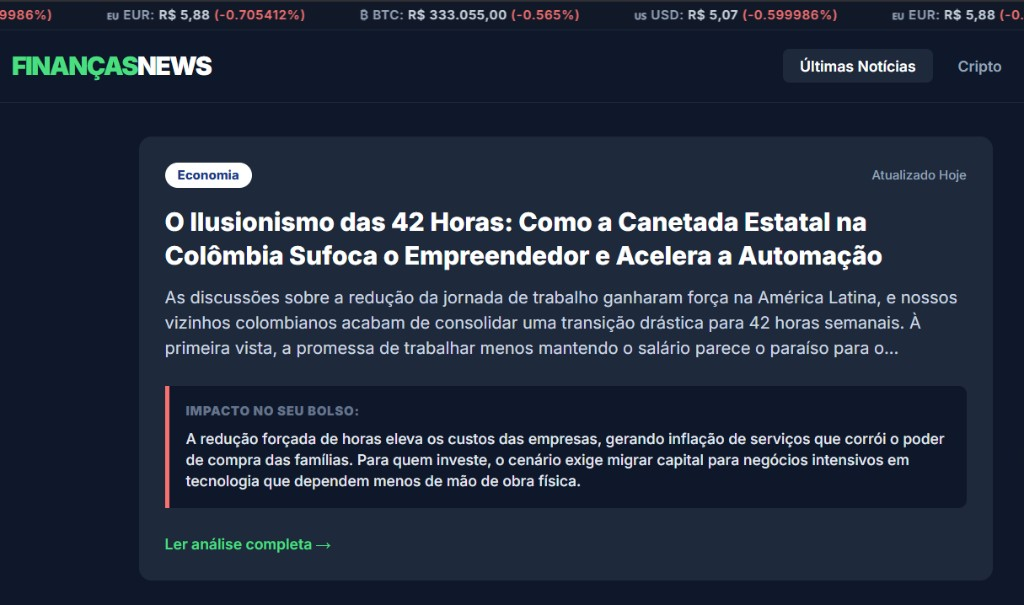
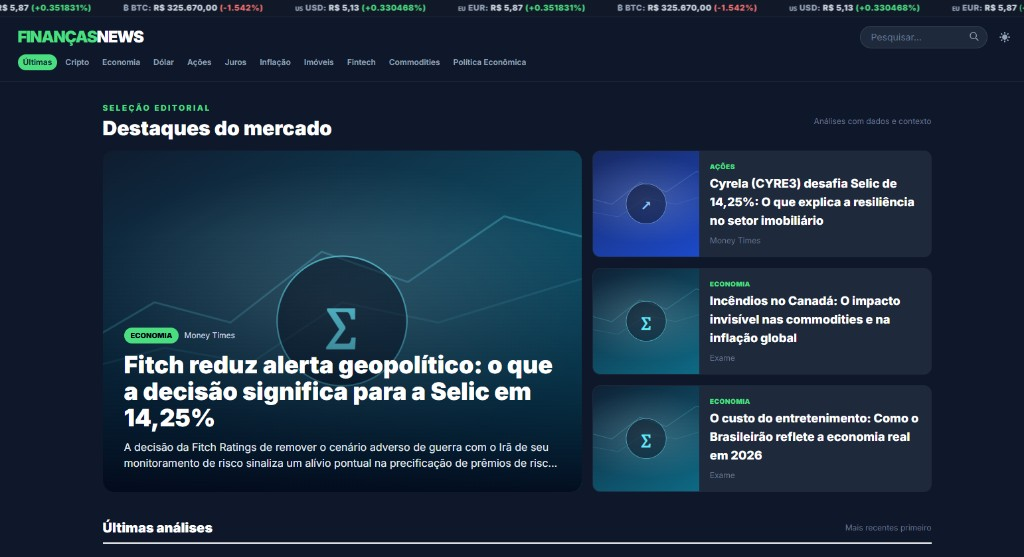
Update Finanças News project details and add new images
- Revised project tagline and description to better reflect the focus on real-time financial analysis.
- Updated features list to include new analytical capabilities and improved content transparency.
- Added a new logo image and updated the homepage preview image for the Finanças News project.

diff --git a/Frontend/src/app/pages/page-projects/page-projects.component.ts b/Frontend/src/app/pages/page-projects/page-projects.component.ts
@@ -112,22 +112,22 @@ export class PageProjectsComponent implements OnInit, OnDestroy, AfterViewInit {
     {
       id: 'financas-news',
       name: 'Finanças News',
-      tagline: 'Portal de notícias financeiras com curadoria inteligente',
-      stack: ['Python', 'FastAPI', 'Turso/SQLite', 'Jinja2', 'Google Gemini'],
+      tagline: 'Portal de análises financeiras com dados de mercado em tempo real',
+      stack: ['Python', 'FastAPI', 'Turso', 'Tailwind CSS', 'Render'],
       description: [
-        'Portal que agrega e publica notícias do mercado financeiro com categorias como Cripto, Economia, Dólar e Ações.',
-        'O sistema consome feeds RSS de fontes confiáveis, cruza informações com dados do Banco Central e gera resumos editoriais com IA.',
+        'Portal de análises do mercado brasileiro — Cripto, Economia, Dólar, Ações e mais — com contexto macroeconômico e orientação prática ao leitor, sempre com crédito e link para a fonte original.',
+        'Cruza cotações e indicadores do Banco Central (Selic, IPCA, câmbio) com o cenário do dia, publicando matérias completas, gráficos e destaques editoriais em um site responsivo otimizado para SEO.',
       ],
       features: [
-        'Agregação de RSS de múltiplas fontes',
-        'Ticker de mercado em tempo real',
-        'Categorização automática de notícias',
-        'Resumos gerados com Google Gemini',
-        'Interface responsiva com modo escuro',
+        'Análises com impacto no bolso e cenário projetado',
+        'Ticker de cotações e evidência de mercado (BCB)',
+        '10 categorias do mercado financeiro brasileiro',
+        'Gráficos e indicadores em cada matéria',
+        'Link transparente à fonte e publicação contínua',
       ],
       images: [
         { src: 'images/projects/financas-news-logo.png', alt: 'Logo Finanças News' },
-        { src: 'images/projects/financas-news-preview.png', alt: 'Portal Finanças News' },
+        { src: 'images/projects/financas-news-preview.png', alt: 'Homepage do portal Finanças News com ticker de cotações e análises em destaque' },
       ],
     },
     {
